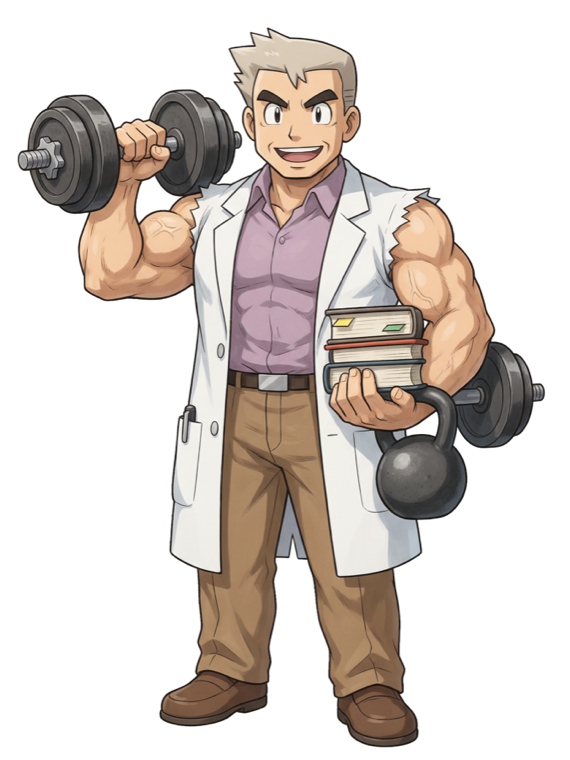
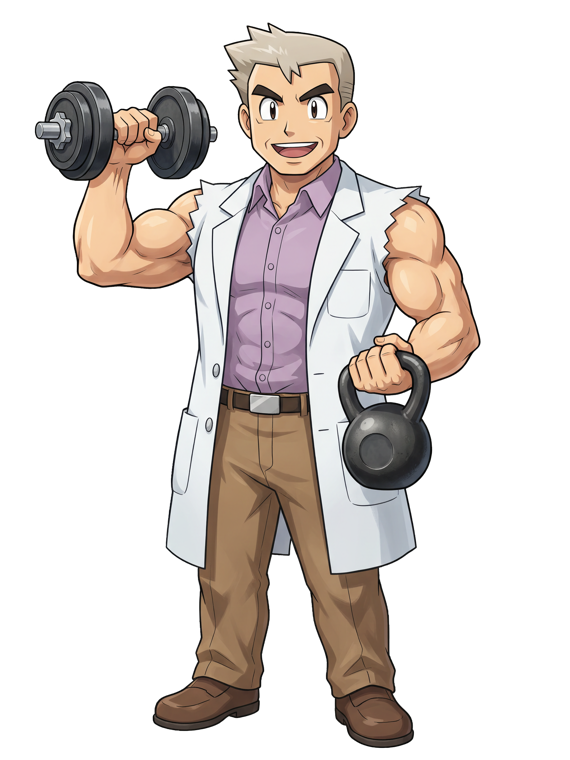
New Professor Ironwood art (app tutorial and homepage)

Changed region(s): [[0.0298, 0.0303, 0.9544, 0.9987]]

diff --git a/public/index.html b/public/index.html
@@ -397,7 +397,7 @@ footer p{max-width:620px}
 <!-- PROFESSOR -->
 <section class="sec" id="professor">
   <div class="wrap prof">
-    <div class="prof-art reveal"><img src="img/professor.png" alt="Professor Ironwood, a very muscular scientist in a lab coat, curling a dumbbell and holding books and a kettlebell" loading="lazy"></div>
+    <div class="prof-art reveal"><img src="img/professor.png" alt="Professor Ironwood, a very muscular scientist in a lab coat, in a sleeveless lab coat, curling a dumbbell and holding a kettlebell" loading="lazy"></div>
     <div class="prof-copy">
       <p class="eyebrow reveal">Your guide</p>
       <h2 class="display reveal" style="font-size:clamp(46px,6.4vw,92px);margin-top:16px">Meet Professor <span class="red-t">Ironwood.</span></h2>
